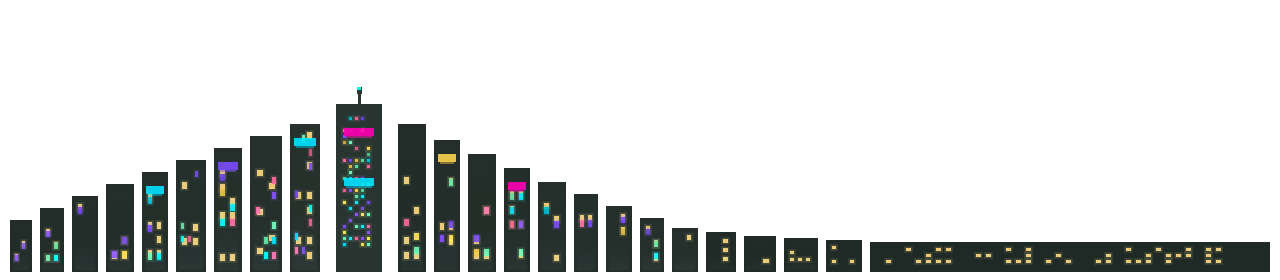
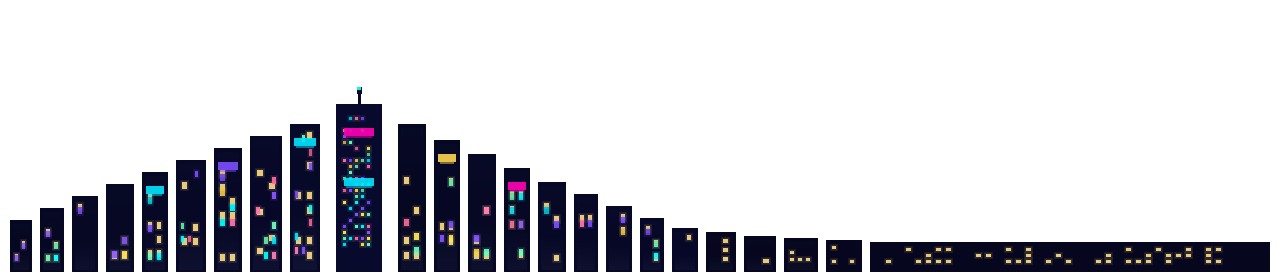
Deploy Stack Rush mobile PWA

Changed region(s): [[0.0, 0.3714, 1.0, 0.9714]]

diff --git a/index.html b/index.html
@@ -619,7 +619,7 @@
       <div class="section-divider"></div>
       <p class="theme-label">City skyline <span id="cityUnlockHint"></span></p>
       <div class="theme-grid" id="cityGrid"></div>
-      <p class="theme-label" id="buildVer" style="margin-top:10px;opacity:.35;font-size:.62rem;text-align:center;">Build 6976c2d6</p>
+      <p class="theme-label" id="buildVer" style="margin-top:10px;opacity:.35;font-size:.62rem;text-align:center;">Build 261f90cb</p>
       <button class="secondary" id="optionsBackBtn" style="width:100%;margin-top:10px;">Back</button>
     </div>
   </div>
@@ -710,7 +710,7 @@ const MUSIC_TRACKS = [
 
 const SFX_FILES = ['drop', 'land', 'perfect', 'great', 'good', 'slice', 'gameover'];
 const ASSETS_BASE = 'assets/';
-const ASSETS_VER = '6976c2d6';
+const ASSETS_VER = '261f90cb';
 const BOARD_KEY = 'stackrush_weekly_board';
 const PLAYER_NAME_KEY = 'stackrush_player_name';
 const BOARD_MAX = 15;
@@ -2945,11 +2945,35 @@ class GameEngine {
     ctx.globalAlpha = 1;
   }
 
+  _drawSkylineSkyBand(ctx, footY, topY, alpha) {
+    if (alpha <= 0.05) return;
+    const night = Math.max(0, 1 - this.altitudeMeters / 110);
+    if (night < 0.1) return;
+    const bandTop = topY - Math.min(36, this.h * 0.05);
+    const bandBot = footY + 10;
+    ctx.save();
+    const haze = ctx.createLinearGradient(0, bandTop, 0, bandBot);
+    haze.addColorStop(0, 'rgba(0,0,0,0)');
+    haze.addColorStop(0.2, `rgba(0,2,6,${(alpha * night * 0.42).toFixed(3)})`);
+    haze.addColorStop(0.55, `rgba(0,1,4,${(alpha * night * 0.62).toFixed(3)})`);
+    haze.addColorStop(1, `rgba(0,0,3,${(alpha * night * 0.48).toFixed(3)})`);
+    ctx.fillStyle = haze;
+    ctx.fillRect(0, bandTop, this.w, bandBot - bandTop);
+    const cap = ctx.createLinearGradient(0, bandTop - 48, 0, bandTop + 16);
+    cap.addColorStop(0, 'rgba(0,0,0,0)');
+    cap.addColorStop(1, `rgba(18,24,38,${(alpha * night * 0.28).toFixed(3)})`);
+    ctx.fillStyle = cap;
+    ctx.fillRect(0, bandTop - 48, this.w, 64);
+    ctx.restore();
+  }
+
   _drawSkylineGround(ctx, footY, skyBot, accent, alpha) {
     if (alpha <= 0.05) return;
+    const night = Math.max(0, 1 - this.altitudeMeters / 110);
     const shoreH = Math.min(48, this.h * 0.06);
-    const shore = lerpHex(skyBot, accent, 0.18);
-    const deep = lerpHex(skyBot, '#0a1020', 0.38);
+    const cityGlow = lerpHex(accent, '#ff9858', night * 0.4);
+    const shore = lerpHex(skyBot, cityGlow, 0.14 + night * 0.16);
+    const deep = lerpHex(skyBot, '#060810', 0.52);
     ctx.save();
     ctx.globalAlpha = alpha;
     const g = ctx.createLinearGradient(0, footY - shoreH * 0.4, 0, footY + shoreH * 0.85);
@@ -3009,8 +3033,6 @@ class GameEngine {
     const accent = getCity(this.cityId).accent || this.palette[0].main;
     const img = CityBank.get(this.cityId);
 
-    this._drawSkylineGround(ctx, skylineFootY, sky.bot, accent, cityAlpha);
-
     if (img && img.complete && img.naturalWidth > 0) {
       const vivid = !!getCity(this.cityId).vivid;
       const targetH = Math.min(200, this.h * 0.28);
@@ -3022,22 +3044,20 @@ class GameEngine {
       const focus = getCity(this.cityId).skylineFocus ?? 0.5;
       const drawX = Math.min(0, Math.max(this.w - tileW, this.w * 0.5 - focus * img.width * scale));
 
+      this._drawSkylineSkyBand(ctx, skylineFootY, topY, cityAlpha);
+      this._drawSkylineGround(ctx, skylineFootY, sky.bot, accent, cityAlpha);
+
       ctx.save();
-      const night = Math.max(0, 1 - this.altitudeMeters / 110);
       ctx.globalAlpha = vivid ? Math.min(1, cityAlpha * 1.08) : cityAlpha;
-      if (vivid) {
-        ctx.filter = 'saturate(1.25) brightness(1.08)';
-      } else if (night > 0.12) {
-        const boost = 1.06 + night * 0.1;
-        const contrast = 1.04 + night * 0.06;
-        ctx.filter = `brightness(${boost.toFixed(3)}) contrast(${contrast.toFixed(3)}) saturate(1.04)`;
-      }
+      if (vivid) ctx.filter = 'saturate(1.25) brightness(1.08)';
       ctx.drawImage(img, drawX, topY, tileW, tileH);
       ctx.restore();
       this._drawSkylineWaterReflection(ctx, img, drawX, topY, tileW, tileH, skylineFootY, cityAlpha);
       this._drawSkylineShoreLine(ctx, skylineFootY, accent, cityAlpha);
       return;
     }
+
+    this._drawSkylineGround(ctx, skylineFootY, sky.bot, accent, cityAlpha);
 
     const rng = v => { v = Math.sin(v) * 1e4; return v - Math.floor(v); };
     let x = -20;
@@ -4134,7 +4154,7 @@ if ('serviceWorker' in navigator) {
     location.reload();
   });
   window.addEventListener('load', () => {
-    navigator.serviceWorker.register('./sw.js?v=6976c2d6').then((reg) => {
+    navigator.serviceWorker.register('./sw.js?v=261f90cb').then((reg) => {
       reg.update();
       if (reg.waiting) reg.waiting.postMessage({ type: 'SKIP_WAITING' });
       reg.addEventListener('updatefound', () => {

diff --git a/sw.js b/sw.js
@@ -1,5 +1,5 @@
 /* Stack Rush service worker — generated by build_mobile.py */
-const CACHE = 'stackrush-6976c2d6';
+const CACHE = 'stackrush-261f90cb';
 const ASSETS = [
   "./manifest.webmanifest",
   "./icon.svg",
